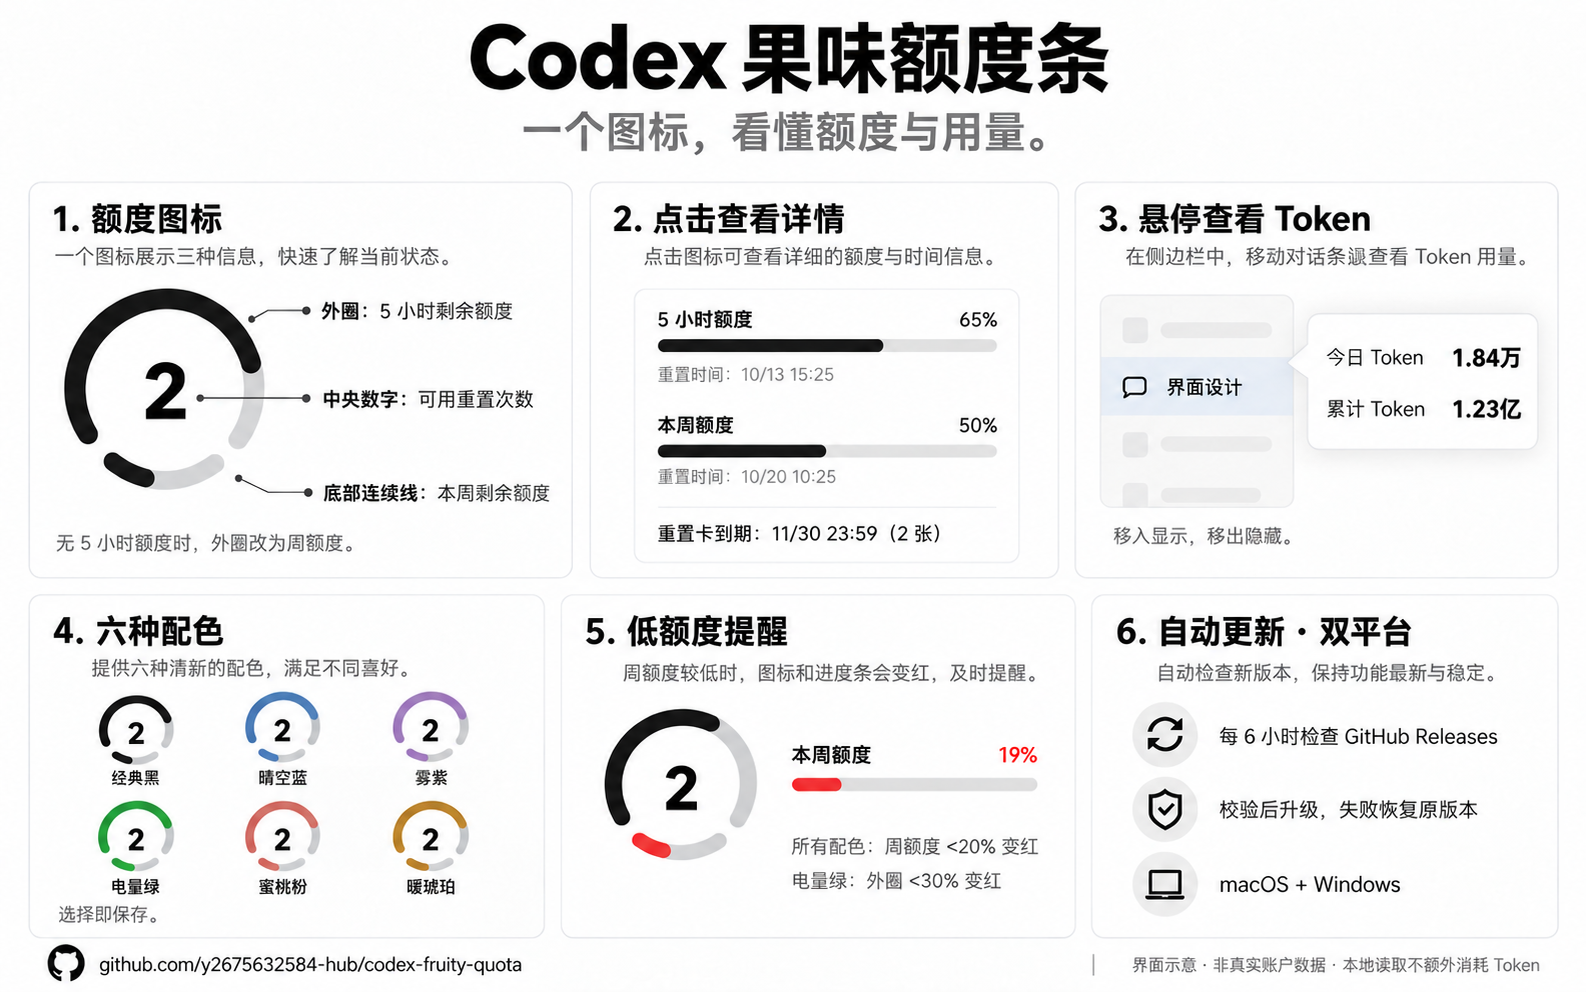
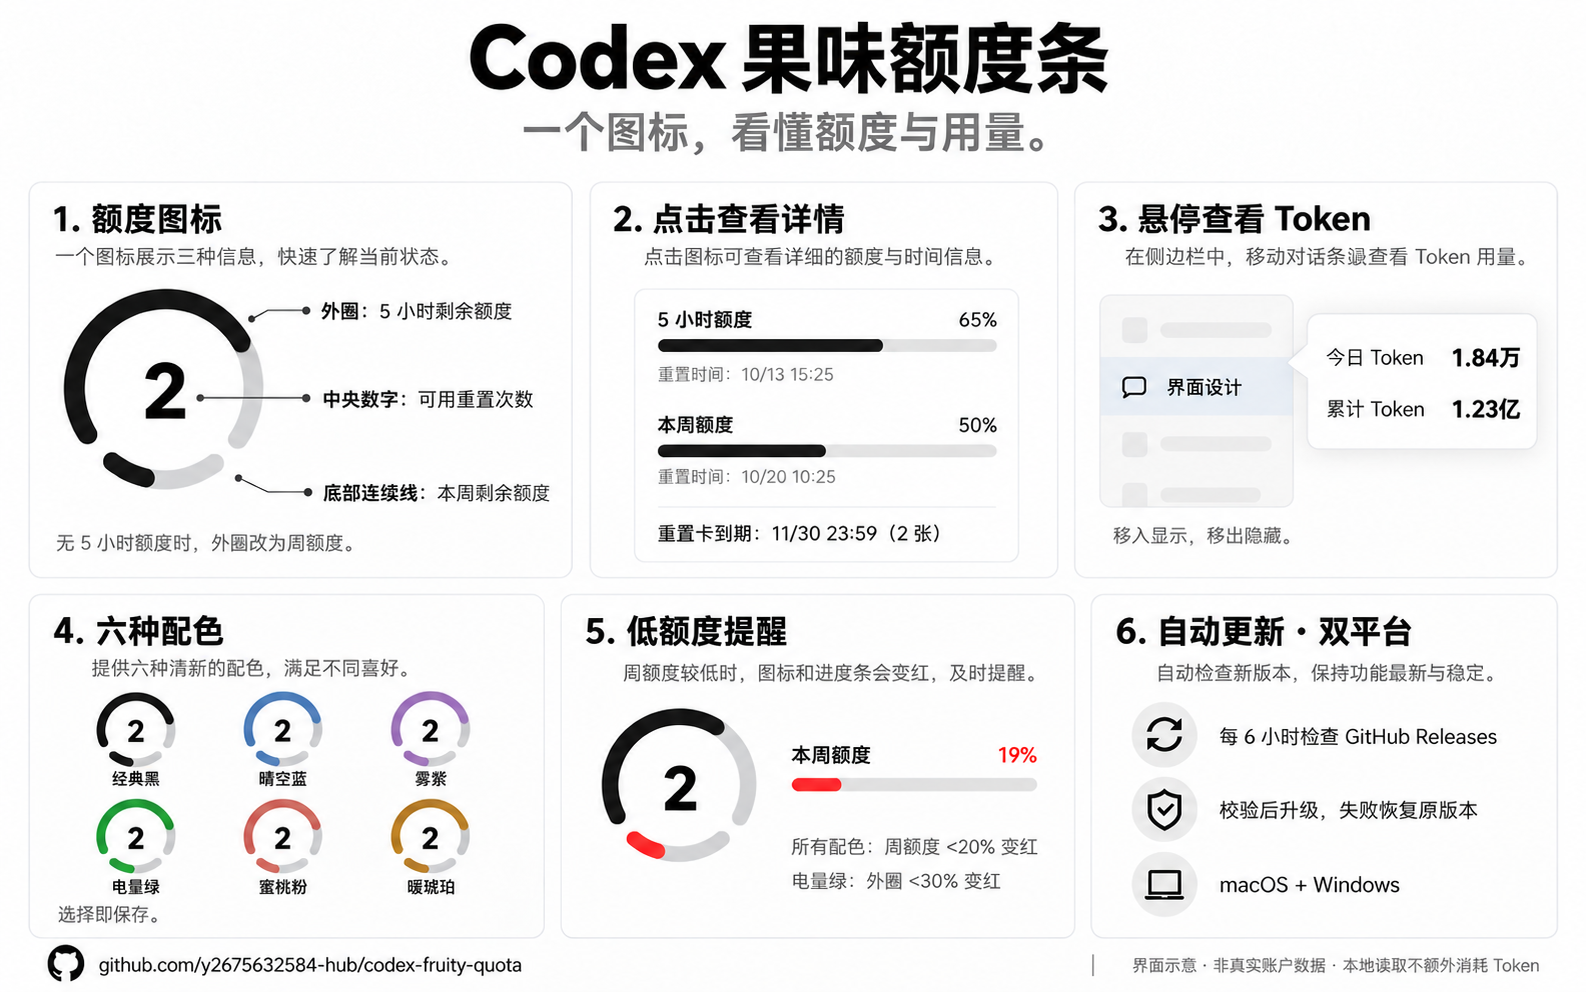
Release 0.5.4: one circular quota ring with two symmetric gaps

diff --git a/src/injected-orbit.js b/src/injected-orbit.js
@@ -1,7 +1,7 @@
 /* Placement is adapted from codex-usage-badge (MIT). See THIRD_PARTY_NOTICES.md. */
 function installQuotaOrbit() {
   const key = '__codexOrbit';
-  const version = 7;
+  const version = 8;
   if (window[key]?.version === version) { window[key].place(); return; }
   window[key]?.destroy?.();
   const badge = document.createElement('div');
@@ -25,11 +25,11 @@ function installQuotaOrbit() {
   let palette = 'classic';
   try { const saved=localStorage.getItem(storageKey); if(validPalette(saved))palette=saved; } catch {}
   badge.innerHTML = `<svg viewBox="0 0 100 100" aria-hidden="true">
-    <path class="orbit-track" d="M24.544 70.456 A36 36 0 1 1 75.456 70.456" pathLength="100"/>
-    <path class="orbit-fill" d="M24.544 70.456 A36 36 0 1 1 75.456 70.456" pathLength="100" visibility="hidden"/>
-    <text class="orbit-resets" x="50" y="45" visibility="hidden"></text>
-    <path class="orbit-week-track" d="M29 82 Q50 94 71 82" pathLength="100"/>
-    <path class="orbit-week-fill" d="M29 82 Q50 94 71 82" pathLength="100" visibility="hidden"/>
+    <path class="orbit-track" d="M24.544155877 75.455844123 A36 36 0 1 1 75.455844123 75.455844123" pathLength="100"/>
+    <path class="orbit-fill" d="M24.544155877 75.455844123 A36 36 0 1 1 75.455844123 75.455844123" pathLength="100" visibility="hidden"/>
+    <text class="orbit-resets" x="50" y="50" visibility="hidden"></text>
+    <path class="orbit-week-track" d="M33.656342009 82.07623487 A36 36 0 0 0 66.343657991 82.07623487" pathLength="100"/>
+    <path class="orbit-week-fill" d="M33.656342009 82.07623487 A36 36 0 0 0 66.343657991 82.07623487" pathLength="100" visibility="hidden"/>
   </svg>`;
   const style = document.createElement('style');
   style.id = 'codex-orbit-style';

diff --git a/web/tokens.html b/web/tokens.html
@@ -38,8 +38,8 @@
         <p class="note">点击左下角额度图标，可开关「对话 Token」。仅支持有本地记录的 Codex 对话；远程／云端没有完整本地记录时显示暂不可用。</p>
       </aside>
     </section>
-    <footer>Codex 果味额度条 0.5.3 · MIT · 复用 codex-usage-badge 的定位与连接方案</footer>
+    <footer>Codex 果味额度条 0.5.4 · MIT · 复用 codex-usage-badge 的定位与连接方案</footer>
   </main>
-  <template id="rail-template"><nav data-app-navigation-rail aria-label="模拟导航栏"><div class="top-icons"><span>⌂</span><span>◷</span><span>▥</span><span>▧</span><span>⚙</span><span>···</span></div><div class="rail-spacer"></div><div class="account-footer"><span class="help">?</span><div class="avatar">U</div></div></nav></template>
+  <template id="rail-template"><nav data-app-navigation-rail aria-label="模拟导航栏"><div class="top-icons"><span>⌂</span><span>◷</span><span>▥</span><span>▧</span><span>⚙</span><span>···</span></div><div class="rail-spacer"></div><div class="account-footer"><div class="avatar">U</div></div></nav></template>
 </body>
 </html>

diff --git a/web/quota-orbit.js b/web/quota-orbit.js
@@ -1,6 +1,6 @@
 import { remaining, resetCount, percentage } from './quota-model.js';
 
-const arc = 'M 24.544 70.456 A 36 36 0 1 1 75.456 70.456';
+const arc = 'M24.544155877 75.455844123 A36 36 0 1 1 75.455844123 75.455844123';
 const template = document.createElement('template');
 template.innerHTML = `
   <style>
@@ -21,9 +21,9 @@ template.innerHTML = `
     <svg viewBox="0 0 100 100" aria-hidden="true">
       <path class="track" d="${arc}" pathLength="100"></path>
       <path class="fill" d="${arc}" pathLength="100" stroke-dasharray="0 100" visibility="hidden"></path>
-      <text x="50" y="45" visibility="hidden"></text>
-      <path class="week-track" d="M29 82 Q50 94 71 82" pathLength="100"></path>
-      <path class="week-fill" d="M29 82 Q50 94 71 82" pathLength="100" visibility="hidden"></path>
+      <text x="50" y="50" visibility="hidden"></text>
+      <path class="week-track" d="M33.656342009 82.07623487 A36 36 0 0 0 66.343657991 82.07623487" pathLength="100"></path>
+      <path class="week-fill" d="M33.656342009 82.07623487 A36 36 0 0 0 66.343657991 82.07623487" pathLength="100" visibility="hidden"></path>
     </svg>
   </button>`;
 

diff --git a/web/rail.html b/web/rail.html
@@ -27,8 +27,8 @@
         <p class="note">定位节点：导航栏 footer 前。找不到节点时隐藏，避免盖住其他内容。</p>
       </aside>
     </section>
-    <footer>Codex 果味额度条 0.5.3 · MIT · 复用 codex-usage-badge 的定位与连接方案</footer>
+    <footer>Codex 果味额度条 0.5.4 · MIT · 复用 codex-usage-badge 的定位与连接方案</footer>
   </main>
-  <template id="rail-template"><nav data-app-navigation-rail aria-label="模拟导航栏"><div class="top-icons"><span>⌂</span><span>◷</span><span>▥</span><span>▧</span><span>⚙</span><span>···</span></div><div class="rail-spacer"></div><div class="account-footer"><span class="help">?</span><div class="avatar">U</div></div></nav></template>
+  <template id="rail-template"><nav data-app-navigation-rail aria-label="模拟导航栏"><div class="top-icons"><span>⌂</span><span>◷</span><span>▥</span><span>▧</span><span>⚙</span><span>···</span></div><div class="rail-spacer"></div><div class="account-footer"><div class="avatar">U</div></div></nav></template>
 </body>
 </html>

diff --git a/README.md b/README.md
@@ -2,14 +2,14 @@
 
 ![Codex 果味额度条宣传图](docs/images/promo.png)
 
-[macOS 下载](https://github.com/y2675632584-hub/codex-fruity-quota/releases/tag/v0.5.3-macos) · [Windows 下载](https://github.com/y2675632584-hub/codex-fruity-quota/releases/tag/v0.5.3-windows)
+[macOS 下载](https://github.com/y2675632584-hub/codex-fruity-quota/releases/tag/v0.5.4-macos) · [Windows 下载](https://github.com/y2675632584-hub/codex-fruity-quota/releases/tag/v0.5.4-windows)
 
 「果味」指苹果风格：白底、黑灰图标与简洁的状态显示。
 
 一个固定在 Codex 桌面端左侧导航栏、帮助／头像区域上方的剩余额度图标。它在侧栏布局中占位，窗口移动和侧栏重绘后会恢复位置。
 
 - **外圈**：优先显示 5 小时剩余额度；账户没有该额度窗口（如仅周额度的 Pro）时改为周额度，外圈与底部进度线都使用周额度。余量越少，圆弧越短。
-- **底部连续线**：本周剩余额度；彩色部分长度随剩余百分比连续变化，已用部分为灰色。
+- **底部圆弧**：与上方大段共用一个正圆，两个小缺口区分 5 小时与周额度。本周剩余额度；彩色部分长度随剩余百分比连续变化，已用部分为灰色。
 - **详情进度条**：点击额度图标，分别查看 5 小时与本周的横向剩余额度条、百分比和重置时间；没有 5 小时额度时只显示周额度。
 - **中央数字**：账户实际可用重置次数；0 次或数据未知时隐藏。点击只查看详情，不会使用重置次数。
 - **重置卡到期**：详情页列出可用重置卡的到期日期与张数；无期限的卡显示「无到期限制」，接口未提供详情时显示「到期时间暂不可用」，没有卡时隐藏日期区域。
@@ -30,13 +30,13 @@
 
 项目已更名为 **Codex 果味额度条**，仓库为 `codex-fruity-quota`。原有安装目录、服务名和 ZIP 文件名保留 `CodexOrbit`，避免重复安装。
 
-**0.3.0 ZIP 仍携带旧更新源**，旧版更新器会拒绝改名后的下载地址。请手动下载 **0.5.3** 并重新安装一次，之后使用本项目的新仓库自动更新。0.5.3 加入今日／累计 Token 两行提示、连续周额度线、详情横向额度条和重置卡到期时间，保留六种配色、仅绿色的低额度提醒及覆盖安装修复。
+**0.3.0 ZIP 仍携带旧更新源**，旧版更新器会拒绝改名后的下载地址。请手动下载 **0.5.4** 并重新安装一次，之后使用本项目的新仓库自动更新。0.5.4 加入今日／累计 Token 两行提示、连续周额度线、详情横向额度条和重置卡到期时间，保留六种配色、仅绿色的低额度提醒及覆盖安装修复。
 
 ## 安装（macOS）
 
 要求 macOS 14+，Intel 或 Apple Silicon；已安装并登录带 Codex CLI 的 Codex 桌面应用；Node.js 24+。安装入口优先使用客户端随附的 Node，没有时需自行安装 Node 24。
 
-1. 解压 `CodexOrbit-macOS-0.5.3.zip`，保持文件夹完整，双击 **安装.command**。
+1. 解压 `CodexOrbit-macOS-0.5.4.zip`，保持文件夹完整，双击 **安装.command**。
 2. 保存当前工作，用 **⌘Q** 完全退出 Codex，再从原来的图标打开，等待约 5–10 秒。
 3. 图标应出现在左侧栏帮助／头像区域上方；点击查看两种额度与重置时间，或在「图标配色」里切换颜色。点击面板外、关闭按钮或按 Esc 收起。
 
@@ -72,7 +72,7 @@ macOS 后台每 **6 小时**检查本项目 GitHub Releases，启动时也会检
 
 **Windows 的安装入口是 `Install.cmd`，不是文件夹。**
 
-1. 在 [Windows 下载页](https://github.com/y2675632584-hub/codex-fruity-quota/releases/tag/v0.5.3-windows) 的 Assets 中下载 **CodexOrbit-Windows-0.5.3.zip**，不要下载 Source code 源码包。
+1. 在 [Windows 下载页](https://github.com/y2675632584-hub/codex-fruity-quota/releases/tag/v0.5.4-windows) 的 Assets 中下载 **CodexOrbit-Windows-0.5.4.zip**，不要下载 Source code 源码包。
 2. 右键 ZIP → **全部解压**，打开解压文件夹，直到看到 **Install.cmd**。不要在 ZIP 内直接运行。
 3. **双击 Install.cmd 安装**；隐藏扩展名时显示为 **Install**。不要进入 startup 文件夹找安装器，也不要单独移动脚本。
 4. 等窗口明确显示 **“安装成功”**，再保存工作、完全退出 Codex并从原图标重开，等待约 5–10 秒。
@@ -112,6 +112,6 @@ macOS 原生构建需要 Node 24、Python 3.9+ 与 Xcode Command Line Tools；Wi
 
 ## 开源发布
 
-源码采用 MIT，保留原项目许可。可以将本仓库推送到自己的 GitHub 仓库，使用标签 `v0.5.3-macos` 与 `v0.5.3-windows` 分别发布，两种 ZIP 与 `dist/SHA256SUMS.txt` 附在对应 Release，让别人解压安装；更新源配置为 `y2675632584-hub/codex-fruity-quota`，发布状态见交付说明。
+源码采用 MIT，保留原项目许可。可以将本仓库推送到自己的 GitHub 仓库，使用标签 `v0.5.4-macos` 与 `v0.5.4-windows` 分别发布，两种 ZIP 与 `dist/SHA256SUMS.txt` 附在对应 Release，让别人解压安装；更新源配置为 `y2675632584-hub/codex-fruity-quota`，发布状态见交付说明。
 
 请不要提交本机配置、运行日志、账号数据或预览中的个人额度。`.gitignore` 已排除这些目录；打包脚本使用明确文件清单，不包含个人设置或参考截图。GitHub Actions 的测试流程覆盖 macOS 与 Windows；推送平台版本标签后，发布流程构建、测试并上传对应 ZIP 与校验清单。发版前同步修改 package.json 版本号。欢迎提交兼容性修复；报告问题时提供应用版本、系统版本和经过脱敏的日志。

diff --git a/README.en.md b/README.en.md
@@ -4,12 +4,12 @@
 
 ![Codex Fruity Quota features](docs/images/features.png)
 
-Public display name: **Codex 果味额度条**. The repository is `codex-fruity-quota`. Existing internal directories, service names and archive names retain `CodexOrbit` for installation compatibility. The published 0.3.0 ZIPs remain unchanged and retain the old update source. Their updater rejects asset URLs under the renamed repository. Manually download and reinstall 0.5.3 once to migrate to the new update source. Version 0.5.3 shows daily and cumulative conversation tokens in a compact two-line hover tooltip, retaining saved color themes, the green-only warning and installer fixes.
+Public display name: **Codex 果味额度条**. The repository is `codex-fruity-quota`. Existing internal directories, service names and archive names retain `CodexOrbit` for installation compatibility. The published 0.3.0 ZIPs remain unchanged and retain the old update source. Their updater rejects asset URLs under the renamed repository. Manually download and reinstall 0.5.4 once to migrate to the new update source. Version 0.5.4 shows daily and cumulative conversation tokens in a compact two-line hover tooltip, retaining saved color themes, the green-only warning and installer fixes.
 
 A quota icon inserted into the Codex desktop navigation rail, immediately above the help/profile footer. The icon occupies normal layout space and restores itself after rail rerenders.
 
 - Outer arc: remaining five-hour quota, or weekly quota when the account has no five-hour window. The continuous bottom line shows weekly quota.
-- Continuous bottom line: weekly remaining quota. Its colored length follows the remaining percentage; used quota stays gray.
+- Bottom arc: weekly remaining quota. It shares the upper arc’s center and radius, forming one circle with two small gaps. Its colored length follows the remaining percentage; used quota stays gray.
 - Center number: the account's available reset count. Hidden at zero or when unknown; clicking only displays details.
 - Details show horizontal five-hour and weekly remaining bars. Weekly-only accounts show only the weekly bar. Available reset cards include expiration dates and counts; explicitly non-expiring cards say so, missing details remain unavailable, and zero cards hide expiration details.
 - Click the quota icon to open details and choose Classic Black, Sky Blue, Mist Purple, Battery Green, Peach Pink or Warm Amber. Selection is saved locally and synchronized across windows of the same client profile.
@@ -24,7 +24,7 @@ This is third-party runtime DOM integration, not an official extension. It does 
 
 Requires macOS 14+, Intel or Apple Silicon, a signed-in Codex desktop app with its bundled CLI, and Node.js 24+. The launcher prefers the app's bundled Node runtime.
 
-1. Extract `CodexOrbit-macOS-0.5.3.zip` and open `安装.command` (Install).
+1. Extract `CodexOrbit-macOS-0.5.4.zip` and open `安装.command` (Install).
 2. Save your work, fully quit Codex using Command-Q, then reopen it normally. Wait 5–10 seconds.
 3. Look above the help/profile area in the left navigation rail.
 

diff --git a/RELEASE_NOTES.md b/RELEASE_NOTES.md
@@ -1,17 +1,7 @@
-0.5.3 补全 Windows 安装指引，安装窗口加入中文标题。
+0.5.4 修正额度图标造型。
 
-## Windows 怎么安装
+5 小时额度和周额度共用同一个圆心与半径，组成一个正圆。上方大段显示 5 小时余量，底部小段显示周余量，中间留两个小缺口区分。无 5 小时额度时，上方大段也显示周额度。
 
-1. 在本页 Assets 下载 **CodexOrbit-Windows-0.5.3.zip**。不要下载 macOS 包或 Source code 源码包。
-2. 右键 ZIP → **全部解压**。
-3. 打开解压后的 **CodexOrbit-Windows-0.5.3** 文件夹，直到看到 **Install.cmd**。
-4. **双击 Install.cmd 安装**。隐藏扩展名时显示为 **Install**。保持文件夹完整，无需进入 startup 文件夹。
-5. 等窗口明确显示 **“安装成功”**，按任意键关闭。保存工作、完全退出 Codex，再从原图标打开，等待约 5–10 秒。
+两段进度分别按自身圆弧长度计算，保留周额度低于 20% 全配色变红、绿色外圈 ≤30% 变红、今日／累计 Token 和重置卡到期时间。
 
-包内 README-Windows.md 列出每个文件的用途。Status.cmd 用于诊断，Update.cmd 用于立即更新，Uninstall.cmd 用于卸载。
-
-## macOS
-
-下载 CodexOrbit-macOS-0.5.3.zip，完整解压后双击安装.command。已安装者可使用立即更新.command；Windows 使用 Update.cmd。
-
-保留每六小时检查更新、校验下载和失败回滚，以及全配色的周额度低于 20% 变红提醒。
+Windows：下载对应 ZIP → 全部解压 → 打开文件夹直到看到 Install.cmd → 双击安装，等明确显示安装成功后完全退出并重开 Codex。macOS：完整解压后双击安装.command。已安装者使用立即更新.command / Update.cmd。

diff --git a/docs/windows.md b/docs/windows.md
@@ -4,9 +4,9 @@
 
 ## 第一次安装：双击 Install.cmd
 
-1. 在 GitHub 的 **Windows Release → Assets** 下载 **CodexOrbit-Windows-0.5.3.zip**。不要选 macOS 包，也不要选 GitHub 自动附带的 Source code 源码包。
+1. 在 GitHub 的 **Windows Release → Assets** 下载 **CodexOrbit-Windows-0.5.4.zip**。不要选 macOS 包，也不要选 GitHub 自动附带的 Source code 源码包。
 2. 右键 ZIP → **全部解压**。不要在压缩包预览里直接运行文件。
-3. 打开解压后的 **CodexOrbit-Windows-0.5.3** 文件夹；如果还有一层同名文件夹，继续打开，直到看到 **Install.cmd**。
+3. 打开解压后的 **CodexOrbit-Windows-0.5.4** 文件夹；如果还有一层同名文件夹，继续打开，直到看到 **Install.cmd**。
 4. **双击 Install.cmd，开始安装。** 如果 Windows 隐藏扩展名，它可能只显示为 **Install**，文件类型为“Windows 命令脚本”。保持整个文件夹完整，不要单独移动这个文件。
 5. 等窗口出现 **“安装成功”**，再按任意键关闭。出现错误或仅出现“请按任意键继续”不代表安装成功；保留窗口里的错误信息。
 6. 保存当前工作，完全退出 Codex（包括托盘中的 Codex），再从原来的 Codex 图标打开，等待约 5–10 秒。额度图标应出现在左侧栏帮助／头像上方。

diff --git a/docs/images/README.md b/docs/images/README.md
@@ -6,7 +6,7 @@
 
 两张图片均不标注软件版本号。界面示意没有问号按钮，额度图标直接位于头像上方。图中额度、Token 与次数均为演示值，示意图不是实机安装截图。
 
-图标的上方圆弧为 270°，彩色长度相对于这整段可用圆弧计算；例如 75% 为 202.5°、50% 为 135°。底部周额度是独立的浅弧连续线，宽度相对上方圆弧为 42:72，进度按该浅弧长度计算。使用当前项目实际图标几何作为参考。
+图标由同心、同半径的两段圆弧组成一个正圆，圆心 (50,50)，半径 36，线宽 6.5。上方大段 270° 表示 5 小时额度，底部小段 54° 表示周额度，两侧各留 18° 的路径缺口；端点为圆头，显示时保持两个小缺口。彩色长度相对于各自圆弧计算，例如上方 75% 为 202.5°，底部 50% 为 27°。动画制作应直接使用真实 SVG 路径，避免按宣传图重新描形。
 
 仅周额度账户的外圈也表示周额度。所有配色在周余量低于 20% 时，周额度线与详情周额度条变红；仅电量绿在外圈剩余 ≤30% 时变红。中央数字表示可用重置次数。Token 提示仅包含今日与累计两行，使用千／万／亿缩写。
 

diff --git a/CHANGELOG.md b/CHANGELOG.md
@@ -1,5 +1,10 @@
 # 更新记录
 
+## 0.5.4 — 2026-10-13
+
+- 上方 5 小时额度与底部周额度改为同心、同半径的圆弧，组成一个正圆，以两个小缺口分隔。
+- 两段仍独立显示余量，保留所有配色的周额度低于 20% 变红和绿色外圈 ≤30% 变红规则。
+
 ## 0.5.3 — 2026-10-13
 
 - Windows 下载页及包内说明明确安装入口为 Install.cmd，增加完整解压、文件夹层级、隐藏扩展名及成功提示的步骤。
